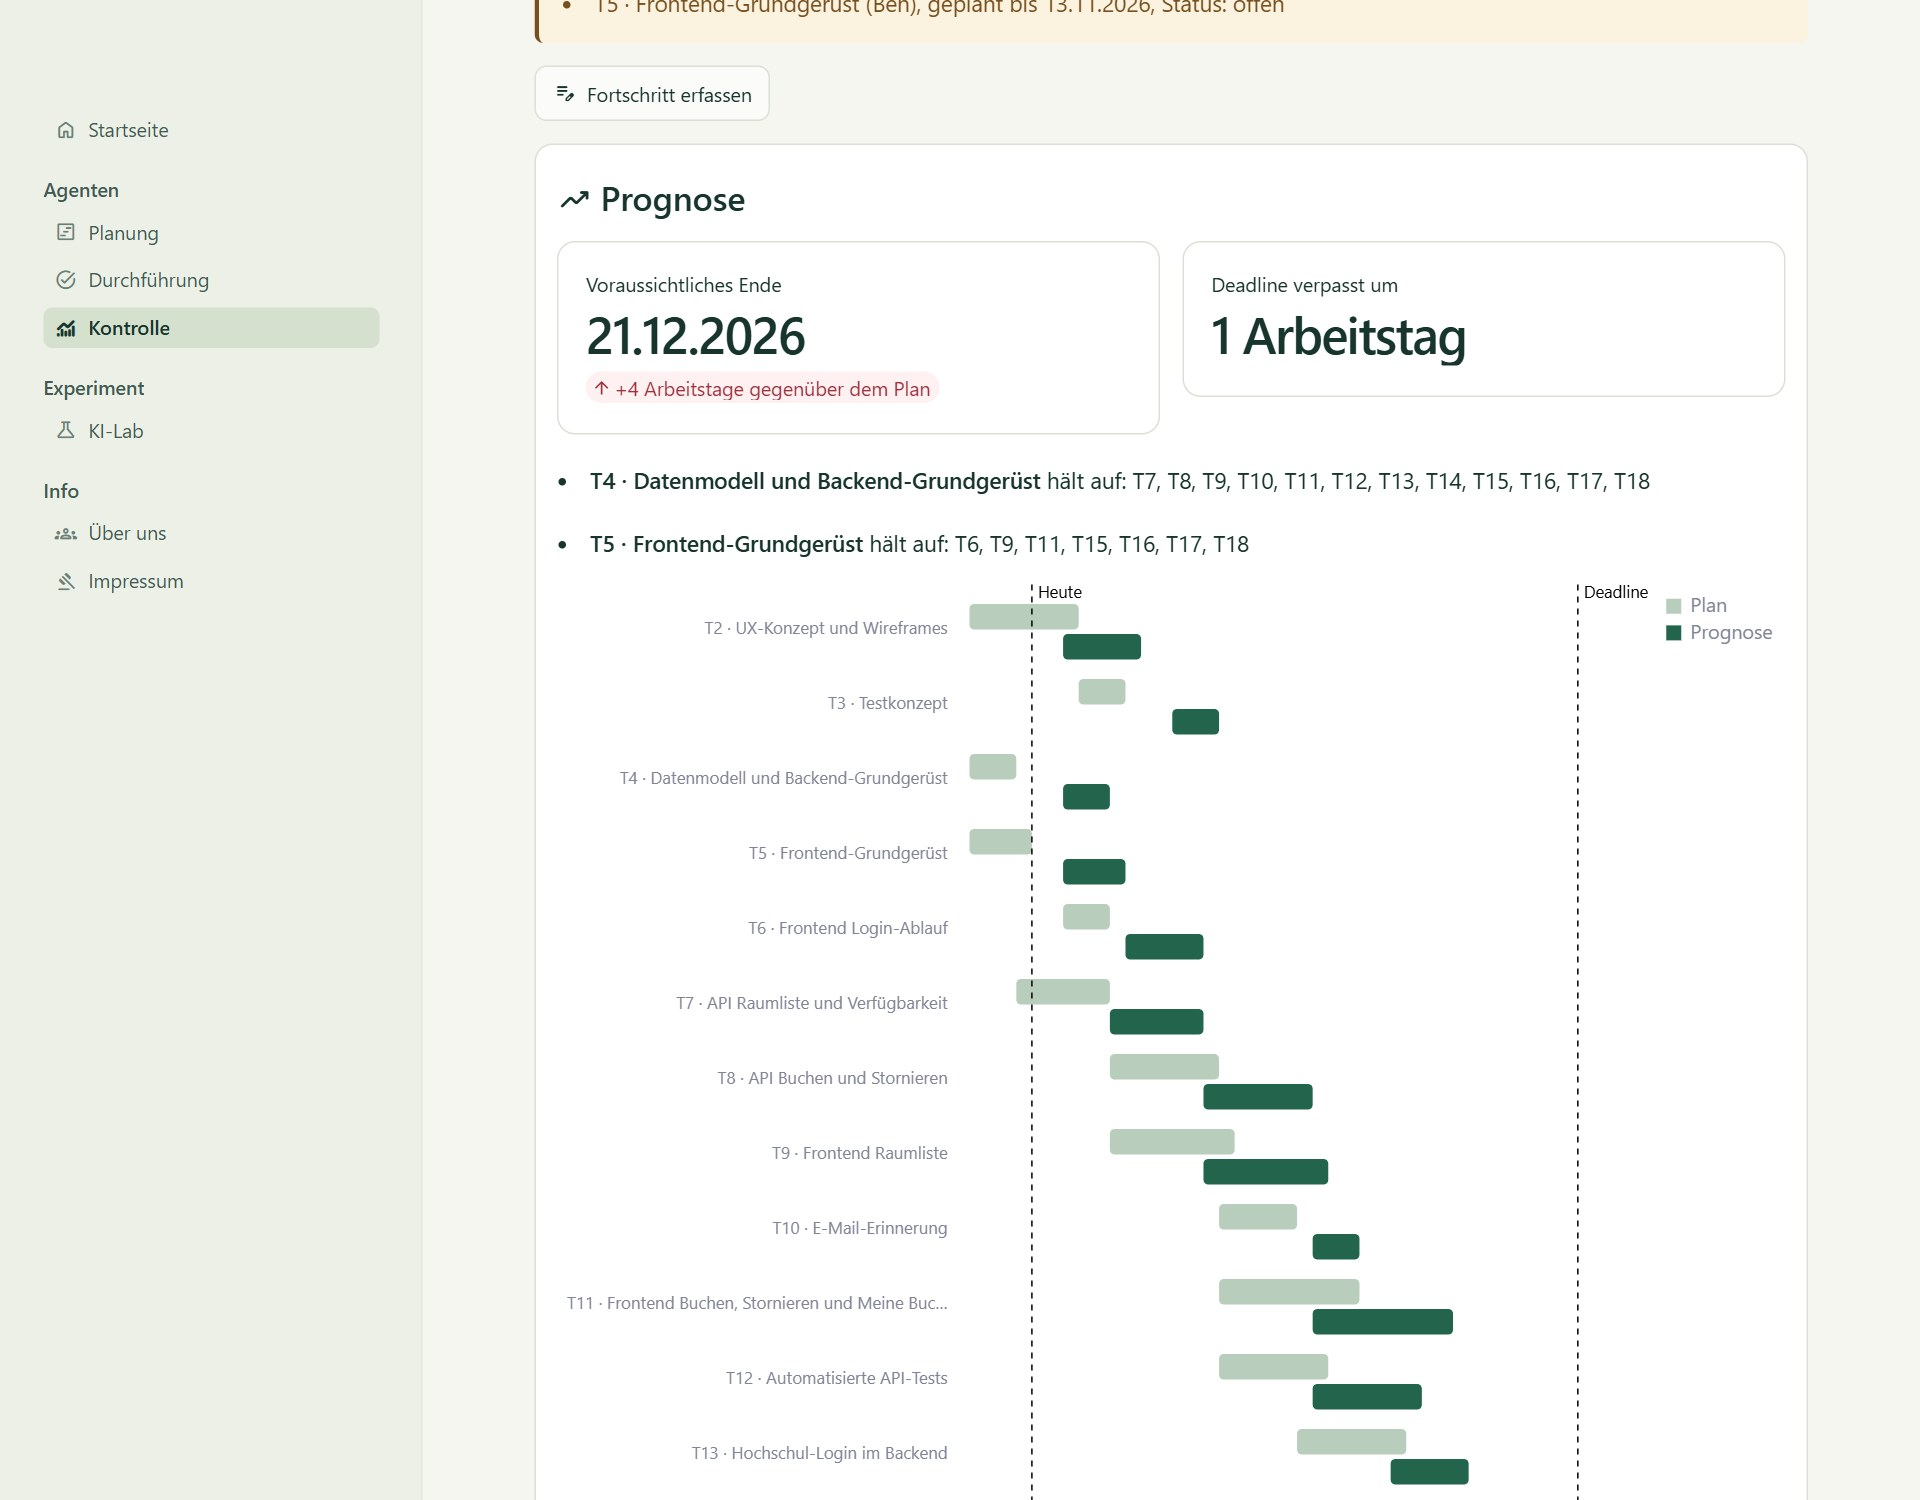
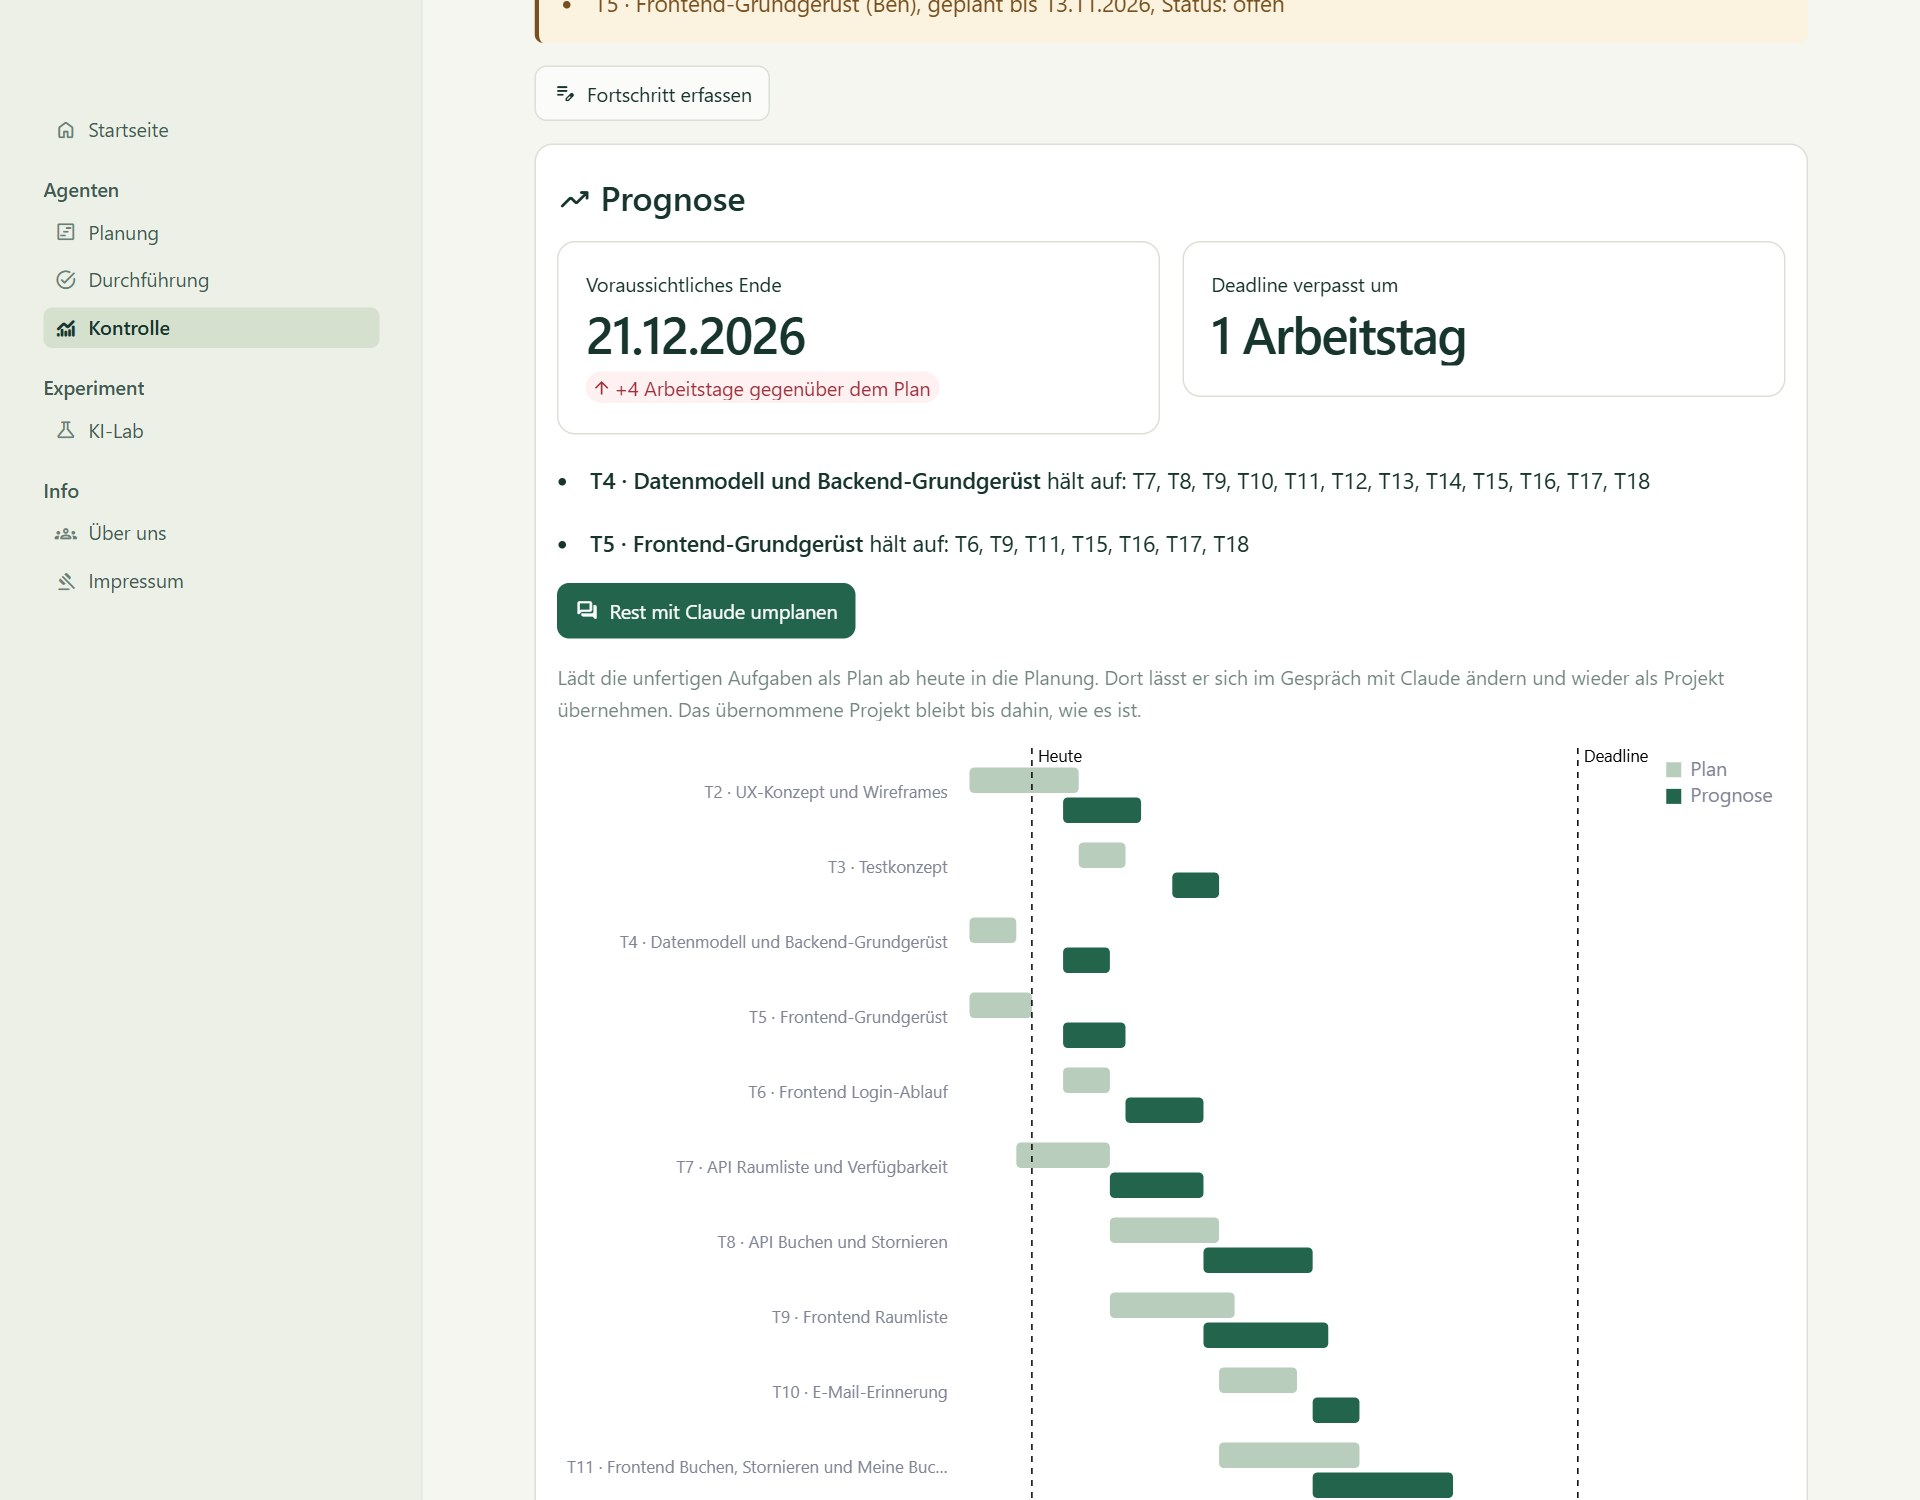
docs: README shows the loop back from Kontrolle to Planung
The README now covers what was added since: wishes suggested from the
check, the way from a forecast that misses the deadline back into the
conversation with Claude (with a diagram of the loop), and countermeasures
whose effect Python computes. Screenshots retaken.

diff --git a/README.md b/README.md
@@ -126,8 +126,13 @@ Termine von 2 Aufgaben verschieben sich
 Erst „Übernehmen“ macht ihn gültig. Wer Claude nicht fragen will, ändert die Tabelle darunter
 von Hand; dann läuft nur die Prüfung.
 
+Was sich zu fragen lohnt, leitet Python aus der Prüfung ab und bietet es als Schaltfläche an:
+den Plan bis zur Deadline enden lassen, eine überlastete Person entlasten, eine Aufgabe jemandem
+geben, der den verlangten Skill hat, oder durchspielen, was passiert, wenn die längste Aufgabe
+auf dem kritischen Pfad doppelt so lange dauert.
+
 <div align="center">
-<img src="04-Prototyp/pm_agent/assets/screenshots/planung-gespraech.jpg" width="820" alt="Schritt Anpassen: oben das Feld „Mit Claude ändern“ mit Eingabezeile, darunter die Tabelle zum Ändern von Hand">
+<img src="04-Prototyp/pm_agent/assets/screenshots/planung-gespraech.jpg" width="820" alt="Schritt Anpassen: oben das Feld „Mit Claude ändern“ mit einem vorgeschlagenen Wunsch und der Eingabezeile, darunter die Tabelle zum Ändern von Hand">
 </div>
 
 ### Durchführung und Kontrolle
@@ -143,6 +148,22 @@ Die Kontrolle sagt auch, was ein Verzug bedeutet. Die **Prognose** plant alles, 
 fertig ist, ab heute neu ein und vergleicht das Ende mit Plan und Deadline. Im Beispiel unten
 sind zwei Aufgaben ein bis zwei Tage im Verzug; die Folge ist ein Ende vier Arbeitstage nach
 Plan und einen Tag nach der Deadline.
+
+Von dort geht es zurück in die Planung: „Rest mit Claude umplanen“ lädt die unfertigen Aufgaben
+als Plan ab heute, und das Gespräch mit Claude beginnt mit genau dem Problem, das die Prognose
+gezeigt hat.
+
+```mermaid
+flowchart LR
+    P[Planung] -- Plan übernehmen --> D[Durchführung]
+    D -- Fortschritt --> K[Kontrolle]
+    K -- Prognose: Deadline in Gefahr --> R[Rest umplanen]
+    R --> P
+```
+
+Schlägt der Kontroll-Agent vor, Aufgaben einer anderen Person zu geben, rechnet Python nach, was
+das für das voraussichtliche Ende bedeutet. Das Ergebnis steht neben der Wirkung, die Claude
+erwartet. Maßnahmen ohne Umverteilung sind als nicht nachrechenbar markiert.
 
 <div align="center">
 <img src="04-Prototyp/pm_agent/assets/screenshots/kontrolle.jpg" width="820" alt="Prognose auf der Seite Kontrolle: voraussichtliches Ende 21.12.2026, vier Arbeitstage nach Plan, Deadline um einen Arbeitstag verpasst; welche Aufgaben die beiden verspäteten aufhalten; Diagramm mit Plan und Prognose je Aufgabe und Linien für heute und die Deadline">
